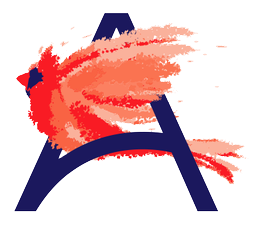
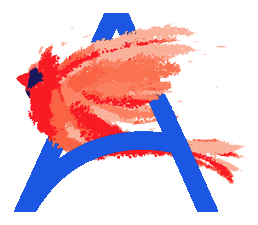
Versione navbar base

Changed region(s): [[0.062, 0.4044, 0.8372, 0.9644], [0.3411, 0.0311, 0.5271, 0.1867]]

diff --git a/index.html b/index.html
@@ -9,13 +9,13 @@
 </head>
 <body>
 <header>
-    <nav class="navbar navbar-expand-lg navbar-light bg-light">
-        <a class="navbar-brand" href="#">Modern Art</a>
+    <nav class=" navbar navbar-expand-lg navbar-dark bg-dark justify-content-between ">
+        <a class="offset-1 navbar-brand" href="#"><img class= "logo" src="static/images/GalleriaArte.png"></a>
         <button class="navbar-toggler" type="button" data-toggle="collapse" data-target="#navbarNavDropdown" aria-controls="navbarNavDropdown" aria-expanded="false" aria-label="Toggle navigation">
             <span class="navbar-toggler-icon"></span>
         </button>
-        <div class="collapse navbar-collapse" id="navbarNavDropdown">
-            <ul class="navbar-nav">
+        <div class=" collapse navbar-collapse" id="navbarText">
+            <ul class="navbar-nav mr-auto">
                 <li class="nav-item active">
                     <a class="nav-link" href="#">Home </a>
                 </li>
@@ -25,18 +25,13 @@
                 <li class="nav-item">
                     <a class="nav-link" href="#">Pricing</a>
                 </li>
-                <li class="nav-item dropdown">
-                    <a class="nav-link dropdown-toggle" href="#" id="navbarDropdownMenuLink" data-toggle="dropdown" aria-haspopup="true" aria-expanded="false">
-                        Dropdown link
-                    </a>
-                    <div class="dropdown-menu" aria-labelledby="navbarDropdownMenuLink">
-                        <a class="dropdown-item" href="#">Action</a>
-                        <a class="dropdown-item" href="#">Another action</a>
-                        <a class="dropdown-item" href="#">Something else here</a>
-                    </div>
-                </li>
             </ul>
+            <div class="offset-8">
+            <a href="#" class=" btn btn-danger active outline-color-danger" role="button" aria-pressed="true">Iscriviti</a>
+            <a href="#" class="btn btn-primary btn active" role="button" aria-pressed="true">Accedi</a>
+            </div>
         </div>
+
     </nav>
 </header>
 

diff --git a/static/css/index.css b/static/css/index.css
@@ -2,6 +2,8 @@
     margin: 0
 }
 .logo {
-    max-height: 100px;
-    max-width: 100px;
+    max-height: 60px;
+    max-width: 60px;
+}
+.navbar{
 }
